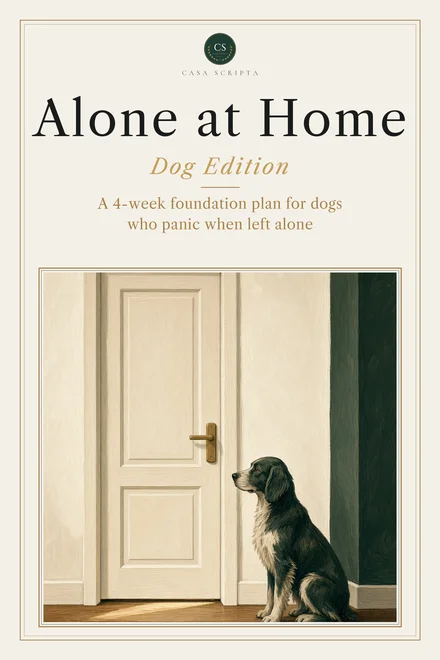
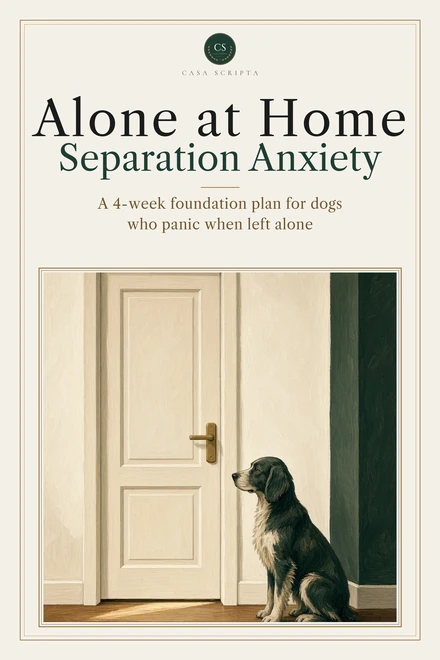
AAH: Dog Edition -> Separation Anxiety (cover v2 webp + OG cover, alt texts, full title/JSON-LD from Brokkr's final title page, blog CTAs)

Changed region(s): [[0.1182, 0.2121, 0.8568, 0.2727], [0.2659, 0.303, 0.7091, 0.3636], [0.7091, 0.303, 0.7682, 0.3333]]

diff --git a/blog/how-long-can-a-dog-with-separation-anxiety-be-left-alone/index.html b/blog/how-long-can-a-dog-with-separation-anxiety-be-left-alone/index.html
@@ -83,7 +83,7 @@ footer a{color:var(--stone)}
 <p class="byline">By <a href="/#about">Devid Egli</a>, Casa Scripta</p>
 <p class="updated">Last updated 20 November 2026</p>
 <p class="how"><strong>How this was written:</strong> Researched from the sources listed below and drafted with AI assistance, then edited by Devid. Not reviewed by a vet.</p>
-<p class="book-link"><a href="/books/alone-at-home/"><img class="book-cover" fetchpriority="high" src="/images/books/alone-at-home-final.webp" alt="Cover of Alone at Home: Dog Edition" width="440" height="660"></a></p>
+<p class="book-link"><a href="/books/alone-at-home/"><img class="book-cover" fetchpriority="high" src="/images/books/alone-at-home-final.webp" alt="Cover of Alone at Home — Separation Anxiety" width="440" height="660"></a></p>
 
 <p>It's one of the first things people ask me when their dog struggles alone: how long is okay? Two hours? Four? A full workday? For a dog with separation anxiety, the honest answer is a little uncomfortable. It's only as long as your dog can stay calm, and at the start that may be minutes, not hours. The good news is that this number can grow. Here's how to find it, how to protect it, and how it gets longer.</p>
 <blockquote>
@@ -163,7 +163,7 @@ Talk to your vet. Don't give any medication, supplement or calming product witho
 </div>
 <p class="pin-wrap"><img class="pin-img" src="/images/pins/how-long-can-a-dog-with-separation-anxiety-be-left-alone.jpg" alt="Pinterest graphic for the Casa Scripta guide “How long can a dog with separation anxiety be left alone?”" width="1000" height="1500" loading="lazy" data-pin-description="How long can a dog with separation anxiety be left alone? A Casa Scripta guide to the 4-hour guideline, finding your dog’s own limit, and how that time grows."></p>
 <h2>Want the whole plan?</h2>
-<p>If you'd like the steps laid out week by week, my Casa Scripta guide, <a href="https://devideg.gumroad.com/l/qcxxca"><em>Alone at Home: Dog Edition</em></a>, includes a week-one cover planner, a 4-week foundation plan for growing your dog's number, and printable logs to track it. It's a plan, not a promise, and results vary. You can also read about it on the <a href="/books/alone-at-home/">Alone at Home book page</a>.</p>
+<p>If you'd like the steps laid out week by week, my Casa Scripta guide, <a href="https://devideg.gumroad.com/l/qcxxca"><em>Alone at Home — Separation Anxiety</em></a>, includes a week-one cover planner, a 4-week foundation plan for growing your dog's number, and printable logs to track it. It's a plan, not a promise, and results vary. You can also read about it on the <a href="/books/alone-at-home/">Alone at Home book page</a>.</p>
 <h2 id="sources">Sources</h2>
 <ul>
 <li>ASPCA, Separation anxiety: https://www.aspca.org/pet-care/dog-care/common-dog-behavior-issues/separation-anxiety</li>

diff --git a/blog/dog-separation-anxiety-apartment-week-one-plan/index.html b/blog/dog-separation-anxiety-apartment-week-one-plan/index.html
@@ -75,7 +75,7 @@ footer a{color:var(--stone)}
 <p class="byline">By <a href="/#about">Devid Egli</a>, Casa Scripta</p>
 <p class="updated">Last updated 19 November 2026</p>
 <p class="how"><strong>How this was written:</strong> Researched from the sources listed below and drafted with AI assistance, then edited by Devid. Not reviewed by a vet.</p>
-<p class="book-link"><a href="/books/alone-at-home/"><img class="book-cover" fetchpriority="high" src="/images/books/alone-at-home-final.webp" alt="Cover of Alone at Home: Dog Edition" width="440" height="660"></a></p>
+<p class="book-link"><a href="/books/alone-at-home/"><img class="book-cover" fetchpriority="high" src="/images/books/alone-at-home-final.webp" alt="Cover of Alone at Home — Separation Anxiety" width="440" height="660"></a></p>
 
 <p>You close the door, and before you reach the elevator the howling starts. By evening there's a note from a neighbor or an email from the building manager. Dog separation anxiety in apartments is stressful because the whole building hears it. Your dog isn't being spiteful, and you're not a bad owner. This week-one plan helps you calm the crisis, protect your neighbors' patience and set up gentle, force-free training.</p>
 <blockquote>
@@ -145,7 +145,7 @@ Keep it as short as you can and film it. If the video shows red flags, call your
 </div>
 <p class="pin-wrap"><img class="pin-img" src="/images/pins/dog-separation-anxiety-apartment-week-one-plan.jpg" alt="Pinterest graphic for the Casa Scripta guide “Dog separation anxiety in apartments: a week-one plan.”" width="1000" height="1500" loading="lazy" data-pin-description="Dog separation anxiety in apartments: a week-one plan. A gentle guide from Casa Scripta covering vet red flags, covering absences, and first tiny training steps."></p>
 <h2>Want the whole plan?</h2>
-<p>If you'd like the next steps laid out, our Casa Scripta guide, <a href="https://devideg.gumroad.com/l/qcxxca"><em>Alone at Home: Dog Edition</em></a>, adds a 4-week foundation plan, neighbor and landlord templates, and printable logs. It's a plan, not a promise, and results vary. You can also read about it on the <a href="/books/alone-at-home/">Alone at Home book page</a>.</p>
+<p>If you'd like the next steps laid out, our Casa Scripta guide, <a href="https://devideg.gumroad.com/l/qcxxca"><em>Alone at Home — Separation Anxiety</em></a>, adds a 4-week foundation plan, neighbor and landlord templates, and printable logs. It's a plan, not a promise, and results vary. You can also read about it on the <a href="/books/alone-at-home/">Alone at Home book page</a>.</p>
 <h2 id="sources">Sources</h2>
 <ul>
 <li>ASPCA, Separation anxiety: https://www.aspca.org/pet-care/dog-care/common-dog-behavior-issues/separation-anxiety</li>

diff --git a/books/alone-at-home/index.html b/books/alone-at-home/index.html
@@ -77,7 +77,8 @@ footer a{color:var(--stone)}
     "Product",
     "Book"
   ],
-  "name": "Alone at Home, Dog Edition: A Gentle, Force-Free Plan for Apartment Dogs Who Can't Be Left Alone",
+  "name": "Alone at Home — Separation Anxiety",
+  "alternativeHeadline": "A gentle, force-free plan for apartment dogs with separation anxiety: week-one damage control, a 4-week foundation, and a clear path for the months after",
   "description": "Your dog howls the moment you leave and the neighbors have noticed. Here is a calm, step-by-step plan for week one, a 4-week foundation, and the months after.",
   "image": "https://casascripta.com/images/og/alone-at-home-og.png",
   "author": {
@@ -107,11 +108,11 @@ footer a{color:var(--stone)}
 <nav><a class="brand" href="/"><img class="seal" src="/brand/seal.svg" alt="Casa Scripta seal" width="40" height="40"><b>CASA SCRIPTA</b></a><div class="links"><a href="/">Home</a><a href="/free/">Free checklists</a><a href="/printables/">Printables</a><a href="/blog/">Blog</a><a href="/#about">About</a></div></nav>
 
 <div class="hero-book">
-  <img class="cover" src="/images/books/alone-at-home-final.webp" alt="Cover of Alone at Home: Dog Edition" width="440" height="660">
+  <img class="cover" src="/images/books/alone-at-home-final.webp" alt="Cover of Alone at Home — Separation Anxiety" width="440" height="660">
   <div>
     <div class="label">THE GUIDE</div>
     <h1>Alone at Home</h1>
-    <p class="fulltitle">Alone at Home, Dog Edition: A Gentle, Force-Free Plan for Apartment Dogs Who Can&#x27;t Be Left Alone</p>
+    <p class="fulltitle">Alone at Home — Separation Anxiety<br>A gentle, force-free plan for apartment dogs with separation anxiety: week-one damage control, a 4-week foundation, and a clear path for the months after</p>
     <p class="hook">Your dog howls the moment you leave and the neighbors have noticed. Here is a calm, step-by-step plan for week one, a 4-week foundation, and the months after.</p>
     <p class="price">$15 · PDF ebook</p>
     <a class="btn" href="https://devideg.gumroad.com/l/qcxxca" target="_blank" rel="noopener">BUY THE GUIDE</a>

diff --git a/index.html b/index.html
@@ -103,7 +103,7 @@ footer .cinzel{font-size:12px;color:var(--ink);display:block;margin-bottom:6px}
 <div class="label">THE GUIDES</div>
 <h2>A clear plan for a hard stretch.</h2>
 <div class="samples">
-<a class="sample" href="/books/alone-at-home/"><img class="coverimg" src="/images/books/alone-at-home-final.webp" alt="Cover of Alone at Home: Dog Edition" width="96" height="144"><div><h3>Alone at Home</h3><p>A gentle, force-free plan for apartment dogs who can't be left alone. $15.</p><span>SEE THE BOOK →</span></div></a>
+<a class="sample" href="/books/alone-at-home/"><img class="coverimg" src="/images/books/alone-at-home-final.webp" alt="Cover of Alone at Home — Separation Anxiety" width="96" height="144"><div><h3>Alone at Home</h3><p>A gentle, force-free plan for apartment dogs who can't be left alone. $15.</p><span>SEE THE BOOK →</span></div></a>
 <a class="sample" href="/books/gentler-nights/"><img class="coverimg" src="/images/books/gentler-nights-final.webp" alt="Cover of Gentler Nights" width="96" height="144"><div><h3>Gentler Nights</h3><p>A calm 14-night baby sleep plan after the 4-month regression, with no cry-it-out. $17.</p><span>SEE THE BOOK →</span></div></a>
 </div>
 </section>

diff --git a/for-creators/index.html b/for-creators/index.html
@@ -97,7 +97,7 @@ footer a{color:var(--stone)}
 <h2>The two finished books.</h2>
 <div class="books">
 <a class="book" href="/books/alone-at-home/">
-<img src="/images/books/alone-at-home-final.webp" alt="Cover of Alone at Home: Dog Edition" width="110" height="165">
+<img src="/images/books/alone-at-home-final.webp" alt="Cover of Alone at Home — Separation Anxiety" width="110" height="165">
 <div>
 <h3>Alone at Home</h3>
 <p>A gentle, force-free plan for apartment dogs who can't be left alone, with a week-one cover plan and a 4-week foundation. $15.</p>
